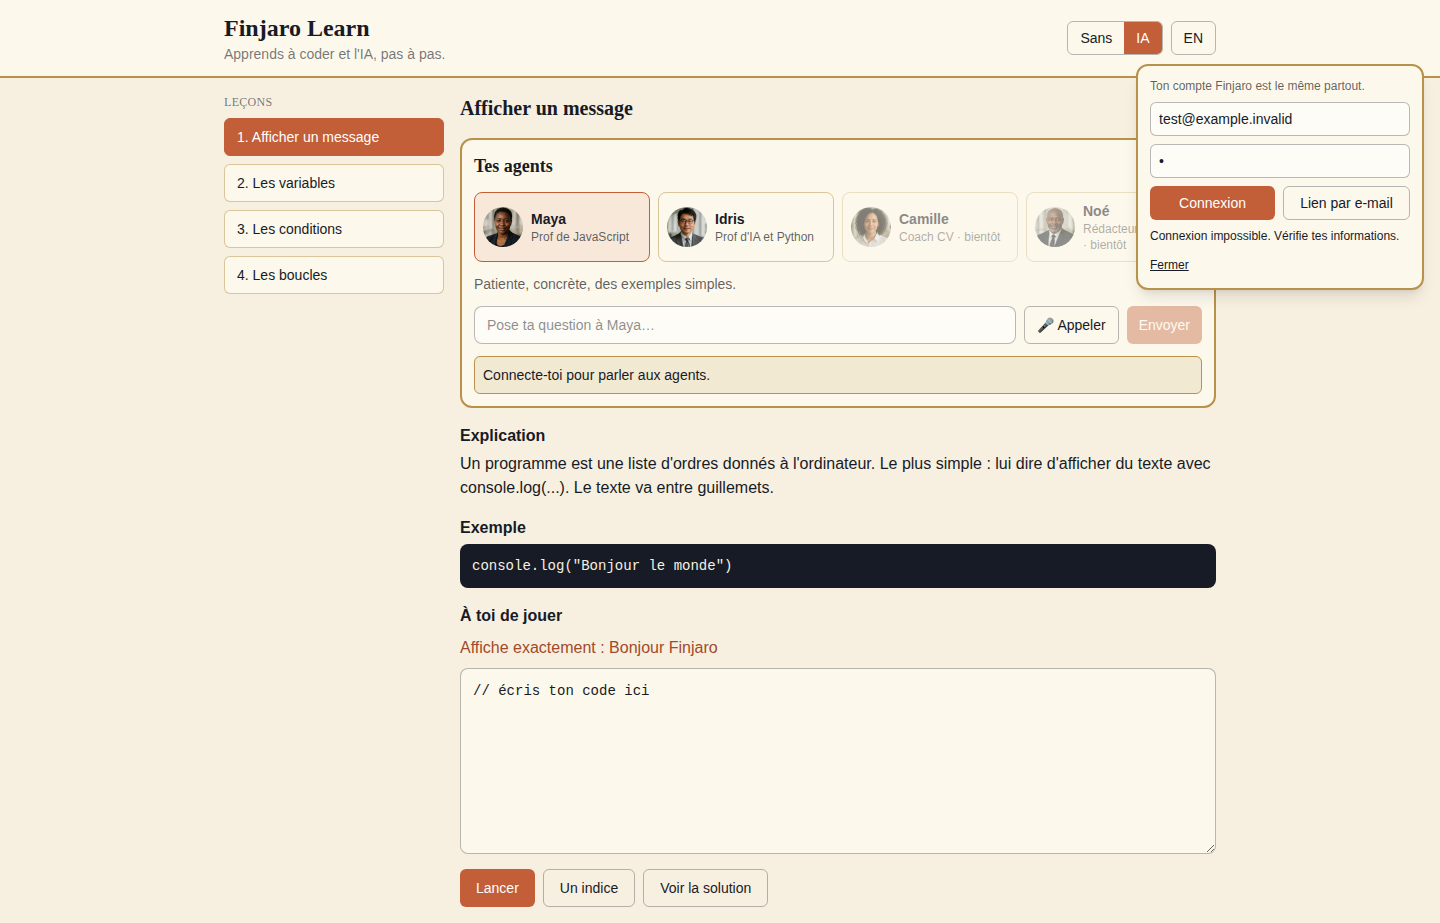
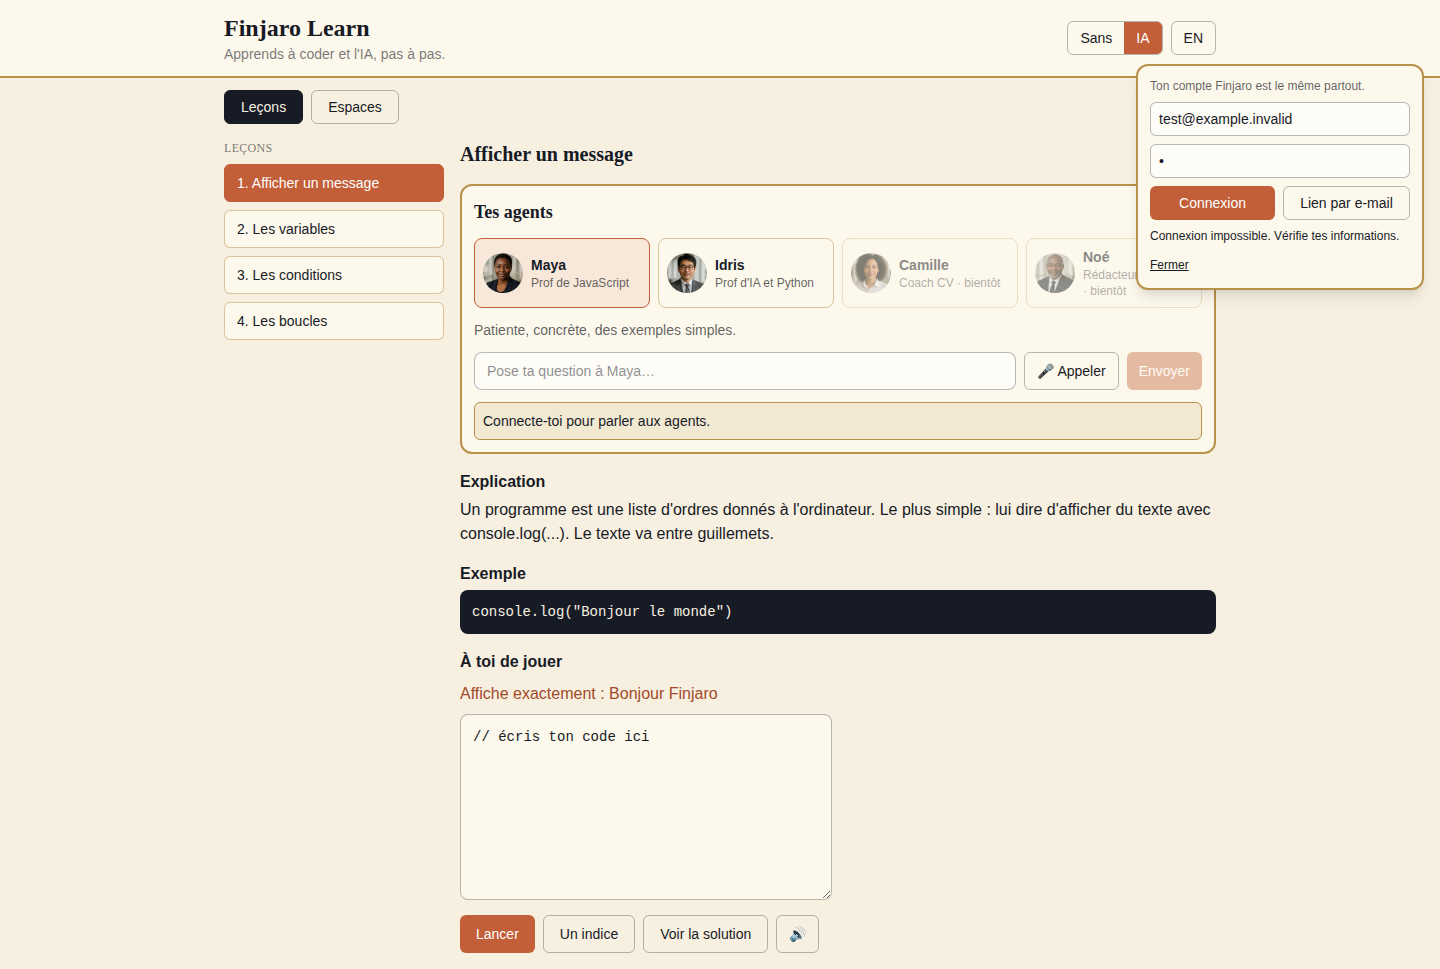
Éditeur + console côte à côte, correction IA avec aperçu des différences, sons ; conception entraide
Claude-Session: https://claude.ai/code/session_01KUV2Kc8dHXWQLfgiLA7ce5

Changed region(s): [[0.0, 0.0, 1.0, 0.7887], [0.3125, 0.9404, 0.5625, 0.9707]]

diff --git a/src/App.tsx b/src/App.tsx
@@ -6,6 +6,9 @@ import { supabase } from './supabase'
 import { ui, type Lang } from './i18n'
 import { lessons } from './lessons'
 import AgentPanel from './AgentPanel'
+import DiffModal from './DiffModal'
+import { askFix, type FixProposal } from './tutor'
+import { playError, playSuccess } from './sounds'
 import { runCode, type RunResult } from './runner'
 
 const pre = 'rounded-lg bg-ink text-cream p-3 text-sm overflow-x-auto whitespace-pre-wrap font-mono'
@@ -35,6 +38,10 @@ export default function App() {
   const lesson = lessons[idx]
   const [code, setCode] = useState(() => load('code:' + lesson.id, lesson.starter))
   const [res, setRes] = useState<RunResult | null>(null)
+  const [sound, setSound] = useState(() => load('sound', '1') === '1')
+  const [fix, setFix] = useState<FixProposal | null>(null)
+  const [fixBusy, setFixBusy] = useState(false)
+  const [fixNote, setFixNote] = useState('')
   const [showHint, setShowHint] = useState(false)
   const t = ui[lang]
 
@@ -64,6 +71,7 @@ export default function App() {
   const run = async () => {
     const r = await runCode(code, lesson.checks)
     setRes(r)
+    if (sound && r.passed !== null) (r.passed ? playSuccess : playError)()
     if (r.passed && !done.includes(lesson.id)) {
       const d = [...done, lesson.id]
       setDone(d)
@@ -75,6 +83,14 @@ export default function App() {
         { onConflict: 'user_id,lesson_id' },
       )
     }
+  }
+
+  const proposeFix = async () => {
+    setFixBusy(true); setFixNote('')
+    const r = await askFix({ code, lesson: lesson.title[lang] + ' — ' + lesson.task[lang], output: (res?.output.join('\n') ?? '') + (res?.error ? '\n' + res.error : ''), lang })
+    setFixBusy(false)
+    if (r.fix) setFix(r.fix)
+    else setFixNote(r.error === 'quota' ? t.quota : t.aiError)
   }
 
   return (
@@ -151,6 +167,8 @@ export default function App() {
           <section className="space-y-2">
             <h3 className="font-semibold">{t.exercise}</h3>
             <p className="font-medium text-terracotta-dark">{lesson.task[lang]}</p>
+            <div className="grid gap-3 lg:grid-cols-2 items-start">
+            <div className="space-y-2 min-w-0">
             <textarea
               value={code}
               onChange={(e) => { setCode(e.target.value); save('code:' + lesson.id, e.target.value) }}
@@ -174,8 +192,19 @@ export default function App() {
               >
                 {t.solution}
               </button>
+              {ai && session && (
+                <button onClick={proposeFix} disabled={fixBusy || !code.trim()} className="border border-terracotta text-terracotta-dark rounded-md px-4 py-2 text-sm disabled:opacity-40">
+                  {fixBusy ? t.thinking : '✨ ' + t.aiFix}
+                </button>
+              )}
+              <button onClick={() => { setSound(!sound); save('sound', sound ? '0' : '1') }} aria-pressed={sound} className="border border-ink/30 rounded-md px-3 py-2 text-sm" title={t.sound}>
+                {sound ? '🔊' : '🔇'}
+              </button>
             </div>
+            {fixNote && <p className="text-sm text-terracotta-dark" role="status">{fixNote}</p>}
             {showHint && <p className="rounded-md bg-brass/15 border border-brass p-3 text-sm">💡 {lesson.hint[lang]}</p>}
+            </div>
+            <div className="min-w-0">
             {res && (
               <div className="space-y-2" aria-live="polite">
                 <h4 className="text-sm font-semibold">{t.output}</h4>
@@ -190,7 +219,13 @@ export default function App() {
                 )}
               </div>
             )}
+            </div>
+            </div>
           </section>
+          {fix && (
+            <DiffModal lang={lang} original={code} fix={fix} onClose={() => setFix(null)}
+              onAccept={() => { setCode(fix.fixed_code); save('code:' + lesson.id, fix.fixed_code); setFix(null); setRes(null) }} />
+          )}
         </main>
       </div>
     </div>

diff --git a/supabase/functions/learn-tutor/index.ts b/supabase/functions/learn-tutor/index.ts
@@ -56,7 +56,9 @@ Deno.serve(async (req) => {
       : custom
         ? `Tu es ${clip(custom.name).slice(0, 60)}. Personnalité : ${clip(custom.personality).slice(0, 500)}.`
         : ''
+  const fixMode = body.mode === 'fix'
   const lang = body.lang === 'en' ? 'en' : 'fr'
+  if (fixMode && !code) return json({ error: 'empty' }, 400)
   if (!question && !code) return json({ error: 'empty' }, 400)
 
   // Mode salon : l'appelant doit être membre de l'espace (vérifié avec SON JWT).
@@ -73,12 +75,18 @@ Deno.serve(async (req) => {
   const key = Deno.env.get('GEMINI_API_KEY')
   if (!key) return json({ error: 'unavailable' }, 503)
 
-  const system =
+  let system =
     persona + ' ' +
     (lang === 'en'
       ? 'You are a patient coding tutor for a complete beginner learning JavaScript. Answer in English, short and simple (max 8 lines). Explain, give a tiny example, never dump the full solution unless asked twice.'
       : 'Tu es un tuteur de code patient pour un débutant complet qui apprend JavaScript. Réponds en français, court et simple (8 lignes max). Explique, donne un petit exemple, ne donne pas toute la solution sauf si on te la demande deux fois.')
 
+  const fixHint = fixMode
+    ? (lang === 'en'
+        ? ' TASK: fix the learner\'s code so it satisfies the lesson goal. Reply as JSON {explanation, fixed_code}: explanation = 2-4 simple sentences saying what was wrong; fixed_code = the full corrected code, changing as little as possible.'
+        : ' TÂCHE : corrige le code de l\'élève pour qu\'il atteigne l\'objectif de la leçon. Réponds en JSON {explanation, fixed_code} : explanation = 2 à 4 phrases simples sur ce qui n\'allait pas ; fixed_code = le code corrigé complet, en changeant le moins possible.')
+    : ''
+  system += fixHint
   const history = Array.isArray(body.history) ? body.history.slice(-MAX_HISTORY) : []
   const contents = [
     ...history
@@ -96,7 +104,19 @@ Deno.serve(async (req) => {
     body: JSON.stringify({
       systemInstruction: { parts: [{ text: system }] },
       contents,
-      generationConfig: { maxOutputTokens: 600, temperature: 0.4, thinkingConfig: { thinkingBudget: 0 } },
+      generationConfig: fixMode
+        ? {
+            maxOutputTokens: 2000,
+            temperature: 0.2,
+            thinkingConfig: { thinkingBudget: 0 },
+            responseMimeType: 'application/json',
+            responseSchema: {
+              type: 'OBJECT',
+              properties: { explanation: { type: 'STRING' }, fixed_code: { type: 'STRING' } },
+              required: ['explanation', 'fixed_code'],
+            },
+          }
+        : { maxOutputTokens: 600, temperature: 0.4, thinkingConfig: { thinkingBudget: 0 } },
     }),
     signal: AbortSignal.timeout(25_000),
   }).catch((e) => (e?.name === 'TimeoutError' ? null : undefined))
@@ -105,6 +125,16 @@ Deno.serve(async (req) => {
   const data = await r.json()
   const answer = data?.candidates?.[0]?.content?.parts?.map((p: { text?: string }) => p.text ?? '').join('') ?? ''
   if (!answer.trim()) return json({ error: 'empty_answer' }, 502)
+  if (fixMode) {
+    // Correction proposée : l'élève la voit en différences et l'accepte ou la refuse côté client.
+    try {
+      const parsed = JSON.parse(answer)
+      if (typeof parsed.fixed_code !== 'string' || typeof parsed.explanation !== 'string') throw new Error('shape')
+      return json({ explanation: parsed.explanation.slice(0, 1500), fixed_code: parsed.fixed_code.slice(0, 8000) })
+    } catch {
+      return json({ error: 'bad_fix' }, 502)
+    }
+  }
   if (espaceId) {
     // Écriture du message d'agent côté serveur (clé de service lue ici seulement, jamais renvoyée).
     const admin = createClient(Deno.env.get('SUPABASE_URL')!, Deno.env.get('SUPABASE_SERVICE_ROLE_KEY')!)

diff --git a/src/DiffModal.tsx b/src/DiffModal.tsx
@@ -1,0 +1,30 @@
+import { diffLines } from './diff'
+import type { FixProposal } from './tutor'
+import { ui, type Lang } from './i18n'
+
+export default function DiffModal({ lang, original, fix, onAccept, onClose }: {
+  lang: Lang; original: string; fix: FixProposal; onAccept: () => void; onClose: () => void
+}) {
+  const t = ui[lang]
+  const lines = diffLines(original, fix.fixed_code)
+  return (
+    <div className="fixed inset-0 z-50 bg-ink/60 p-3 flex items-center justify-center" role="dialog" aria-modal="true" aria-label={t.fixTitle}>
+      <div className="bg-paper rounded-xl border-2 border-brass w-full max-w-2xl max-h-[90vh] overflow-y-auto p-4 space-y-3">
+        <h3 className="font-serif font-bold text-lg">{t.fixTitle}</h3>
+        <p className="text-sm whitespace-pre-wrap">{fix.explanation}</p>
+        <p className="text-xs text-ink/60">{t.fixHelp}</p>
+        <pre className="rounded-lg bg-ink text-cream p-3 text-sm overflow-x-auto font-mono">
+          {lines.map((l, i) => (
+            <div key={i} className={l.kind === 'add' ? 'bg-green-900/50' : l.kind === 'del' ? 'bg-red-900/50 line-through opacity-80' : ''}>
+              {l.kind === 'add' ? '+ ' : l.kind === 'del' ? '- ' : '  '}{l.text}
+            </div>
+          ))}
+        </pre>
+        <div className="flex gap-2 justify-end">
+          <button onClick={onClose} className="border border-ink/30 rounded-md px-4 py-2 text-sm">{t.refuse}</button>
+          <button onClick={onAccept} className="bg-terracotta text-white rounded-md px-4 py-2 text-sm font-medium">{t.accept}</button>
+        </div>
+      </div>
+    </div>
+  )
+}

diff --git a/src/sounds.ts b/src/sounds.ts
@@ -1,0 +1,24 @@
+// Petits sons de réussite / d'erreur (Web Audio, aucun fichier, aucune clé).
+let ctx: AudioContext | null = null
+
+function tone(freqs: number[], step: number, type: OscillatorType = 'sine') {
+  try {
+    const AC = window.AudioContext ?? (window as unknown as { webkitAudioContext: typeof AudioContext }).webkitAudioContext
+    if (!AC) return
+    ctx ??= new AC()
+    void ctx.resume()
+    const t0 = ctx.currentTime
+    freqs.forEach((f, i) => {
+      const o = ctx!.createOscillator(), g = ctx!.createGain()
+      o.type = type; o.frequency.value = f
+      g.gain.setValueAtTime(0.0001, t0 + i * step)
+      g.gain.exponentialRampToValueAtTime(0.12, t0 + i * step + 0.02)
+      g.gain.exponentialRampToValueAtTime(0.0001, t0 + i * step + step)
+      o.connect(g).connect(ctx!.destination)
+      o.start(t0 + i * step); o.stop(t0 + i * step + step + 0.05)
+    })
+  } catch { /* son indisponible : on ignore */ }
+}
+
+export const playSuccess = () => tone([523.25, 659.25, 783.99, 1046.5], 0.11)
+export const playError = () => tone([220, 164.81], 0.16, 'triangle')

diff --git a/src/i18n.ts b/src/i18n.ts
@@ -27,6 +27,12 @@ export const ui = {
     authError: 'Connexion impossible. Vérifie tes informations.',
     accountHelp: 'Ton compte Finjaro est le même partout.',
     close: 'Fermer',
+    aiFix: 'Corriger avec l’IA',
+    sound: 'Sons',
+    fixTitle: 'Correction proposée',
+    fixHelp: 'Compare avant d’accepter : rien n’est modifié sans ton accord.',
+    accept: 'Accepter',
+    refuse: 'Refuser',
     spaces: 'Espaces',
     lessonsTab: 'Leçons',
     spacesLogin: 'Connecte-toi pour créer ou rejoindre un espace d’étude.',
@@ -87,6 +93,12 @@ export const ui = {
     authError: 'Could not sign in. Check your details.',
     accountHelp: 'Your Finjaro account is the same everywhere.',
     close: 'Close',
+    aiFix: 'Fix with AI',
+    sound: 'Sounds',
+    fixTitle: 'Proposed fix',
+    fixHelp: 'Compare before accepting: nothing changes without your approval.',
+    accept: 'Accept',
+    refuse: 'Refuse',
     spaces: 'Spaces',
     lessonsTab: 'Lessons',
     spacesLogin: 'Sign in to create or join a study space.',

diff --git a/src/diff.ts b/src/diff.ts
@@ -1,0 +1,20 @@
+export interface DiffLine { kind: 'same' | 'add' | 'del'; text: string }
+
+/** Différences ligne à ligne (plus longue sous-suite commune). */
+export function diffLines(a: string, b: string): DiffLine[] {
+  const x = a.split('\n'), y = b.split('\n')
+  const n = x.length, m = y.length
+  const l: number[][] = Array.from({ length: n + 1 }, () => new Array(m + 1).fill(0))
+  for (let i = n - 1; i >= 0; i--)
+    for (let j = m - 1; j >= 0; j--) l[i][j] = x[i] === y[j] ? l[i + 1][j + 1] + 1 : Math.max(l[i + 1][j], l[i][j + 1])
+  const out: DiffLine[] = []
+  let i = 0, j = 0
+  while (i < n && j < m) {
+    if (x[i] === y[j]) { out.push({ kind: 'same', text: x[i] }); i++; j++ }
+    else if (l[i + 1][j] >= l[i][j + 1]) out.push({ kind: 'del', text: x[i++] })
+    else out.push({ kind: 'add', text: y[j++] })
+  }
+  while (i < n) out.push({ kind: 'del', text: x[i++] })
+  while (j < m) out.push({ kind: 'add', text: y[j++] })
+  return out
+}

diff --git a/src/tutor.ts b/src/tutor.ts
@@ -27,3 +27,18 @@ export async function askTutor(c: TutorCtx): Promise<{ answer?: string; error?: 
   }
   return data?.answer ? { answer: data.answer } : { error: 'ai' }
 }
+
+export interface FixProposal { explanation: string; fixed_code: string }
+
+/** Demande une correction : explication + code corrigé (jamais appliqué sans l'accord de l'élève). */
+export async function askFix(c: Omit<TutorCtx, 'question' | 'agentId'>): Promise<{ fix?: FixProposal; error?: 'quota' | 'ai' }> {
+  if (!supabase) return { error: 'ai' }
+  const { data, error } = await supabase.functions.invoke('learn-tutor', {
+    body: { mode: 'fix', question: '', code: c.code, lesson: c.lesson, output: c.output, lang: c.lang, agent: { id: 'js' } },
+  })
+  if (error) {
+    const status = (error as { context?: Response }).context?.status
+    return { error: status === 429 ? 'quota' : 'ai' }
+  }
+  return data?.fixed_code ? { fix: data as FixProposal } : { error: 'ai' }
+}

diff --git a/docs/ENTRAIDE.md b/docs/ENTRAIDE.md
@@ -1,0 +1,33 @@
+# Entraide entre membres — conception (à relire par Alpha, rien d'appliqué)
+
+Demande de Beau (01/10) : « une plateforme communautaire d'entraide entre les membres actifs ».
+
+## Principe
+Un fil de questions publiques (pour les membres connectés de Learn). Les membres répondent ; un agent répond aussi si on le nomme. L'auteur choisit la meilleure réponse. Chaque membre a un profil d'entraide avec des compteurs **réels**.
+
+## Écrans
+1. **Questions** : liste (récentes / sans réponse / résolues), filtre par parcours (programmation, data, IA, prompt) et par étiquette ; bouton « Poser une question ».
+2. **Poser** : titre, détail, code optionnel (≤ 20 000 car.), parcours, étiquettes (≤ 5).
+3. **Question** : texte + code, réponses des membres, réponses d'agents (badge « agent », jamais présentées comme humaines), bouton « meilleure réponse » visible par l'auteur seulement, « signaler » sur chaque élément.
+4. **Profil d'entraide** : réponses données, réponses retenues (meilleures réponses), questions posées. Valeurs calculées en base ; **comptes de test exclus** (`profiles.is_test` / `compte_reel()` — à confirmer avec Alpha comment les lire sans toucher aux tables des autres applications).
+5. **Modération simple** : signalements visibles par les animateurs de la communauté (rôle `learn_moderateurs`), masquer un contenu (jamais le supprimer physiquement).
+
+## Tables (préfixe learn_entraide_, additives, RLS)
+- `learn_entraide_questions(id, auteur_id → auth.users, titre ≤ 150, corps ≤ 4000, code ≤ 20000, parcours, tags text[] ≤ 5, meilleure_reponse_id null, masquee bool, created_at)`
+- `learn_entraide_reponses(id, question_id, auteur_id null si agent, agent_id null, corps ≤ 4000, code, masquee bool, created_at)`
+- `learn_entraide_signalements(id, cible_type in ('question','reponse'), cible_id, auteur_id, motif ≤ 300, traite bool, created_at, unique(auteur_id,cible_type,cible_id))`
+- `learn_entraide_moderateurs(user_id pk)` — alimentée par Alpha/Beau, jamais par le client.
+- Vue/RPC `learn_entraide_profil(user_id)` : compteurs réels (réponses données = lignes non masquées ; retenues = réponses désignées meilleures ; hors comptes de test).
+
+## Règles et sécurité
+- Lecture des contenus non masqués : tout membre connecté (pas d'anonyme). Écriture : son propre contenu seulement.
+- **Meilleure réponse** : RPC `learn_entraide_choisir(question_id, reponse_id)` — vérifie que l'appelant est l'auteur de la question et que la réponse appartient à la question.
+- **Agent** : comme pour les salons, un agent répond via `learn-tutor` (mode `entraide`), qui écrit la réponse côté serveur (service_role) après vérification que l'appelant est connecté ; limite 60/jour/personne inchangée + plafond de réponses d'agent par question (3).
+- **Anti-abus** : limite de questions (10/jour/personne) et de réponses (50/jour/personne) via compteur serveur ; 1 signalement par personne et par contenu ; un contenu masqué n'est plus servi mais reste en base.
+- Aucun chiffre affiché sans mesure (pas de « X membres actifs » inventé) ; un profil neuf affiche 0.
+- Pas de message privé, pas d'e-mail ni de nom réel exposé : pseudo issu du profil Learn (à créer : `learn_profils(user_id, pseudo)`, additif) plutôt que la lecture de `profiles` d'autres applications.
+
+## Questions pour Alpha
+1. Comptes de test : puis-je lire `profiles.is_test` (une colonne, lecture seule) pour exclure ces comptes des compteurs, ou préfères-tu une fonction `learn_est_compte_reel(uid)` que tu écris ?
+2. Pseudo : OK pour `learn_profils` côté Learn plutôt que lire les profils des autres apps ?
+3. Qui alimente `learn_entraide_moderateurs` au départ (Beau seul ?).

diff --git a/docs/A-FAIRE.md b/docs/A-FAIRE.md
@@ -10,6 +10,7 @@ Chaque demande de Beau, le jour même. On coche ✅ avec la date, on ne supprime
 | 01/10 | Comme Léo : agents (visage, prénom, personnalité, spécialité) qu'on appelle à la voix ; connexion à son Léo (agents guides, lecture seule) ; travailler avec ou sans IA ; style vintage Finjaro, téléphone ET ordinateur. | Fait : interrupteur avec/sans IA, cartes d'agents, appel vocal, thème (01/10). Reste : visages Léo, réponses IA, connexion à Léo (après « oui Learn »). |
 | 01/10 | « À Learn on peut travailler à plusieurs, apprendre et coder à plusieurs, un espace comme dans Léo. » | Conception écrite : docs/ESPACES.md (en relecture chez Alpha) |
 | 01/10 | « Oui, Learn peut lire mes agents Léo » (dit directement à Learn). | Fait : bouton « Connecter mon Léo », lecture seule (legion_entreprises id/nom ; legion_agents colonnes validées), avec le JWT de l'élève. Non testé avec un vrai compte. |
+| 01/10 | « Pourquoi se limiter à plus tard, on peut faire tout ça maintenant » ; maquette CodeCraft ; « une plateforme communautaire d'entraide entre les membres actifs ». | Fait : éditeur + console côte à côte, « Corriger avec l'IA » avec aperçu des différences (accepter/refuser), sons de réussite/erreur ; conception de l'entraide : docs/ENTRAIDE.md (en relecture). Fiches/CV/newsletter : session « Learn — outils ». |
 
 ## 1. Ce qu'on attend de Beau
 

diff --git a/docs/COORDINATION.md b/docs/COORDINATION.md
@@ -16,3 +16,4 @@ messages directs (create_trigger vers la session concernée).
 | 01/10 | Alpha → Learn | Relecture SQL espaces : 5 corrections faites (message d'agent réservé à service_role via learn-tutor + champ espace_id, update par colonnes, extensions.gen_random_bytes, dernier animateur protégé). |
 | 01/10 | Beau → Learn | « Oui, Learn peut lire mes agents Léo » (message direct). Code : src/leo.ts, lecture seule, colonnes validées par Alpha, JWT de l'élève. |
 | 01/10 | Alpha → Learn | Migration learn_espaces appliquée + learn-tutor v2 (11/11 tests en base). Learn : écran Espaces (liste, création, invitation par lien ?join=, salon avec Realtime privé + présence, agents nommés @Maya/@Idris). Non testé connecté (pas de compte de test). |
+| 01/10 | Alpha → Learn | Nouvelles demandes (13 h 25) : outils (fiches/CV/newsletter) confiés à une 2e session dans src/outils/ ; CodeCraft ; entraide. Learn : éditeur+console, correction IA avec diff (mode fix dans learn-tutor, à redéployer), sons ; conception docs/ENTRAIDE.md. |
